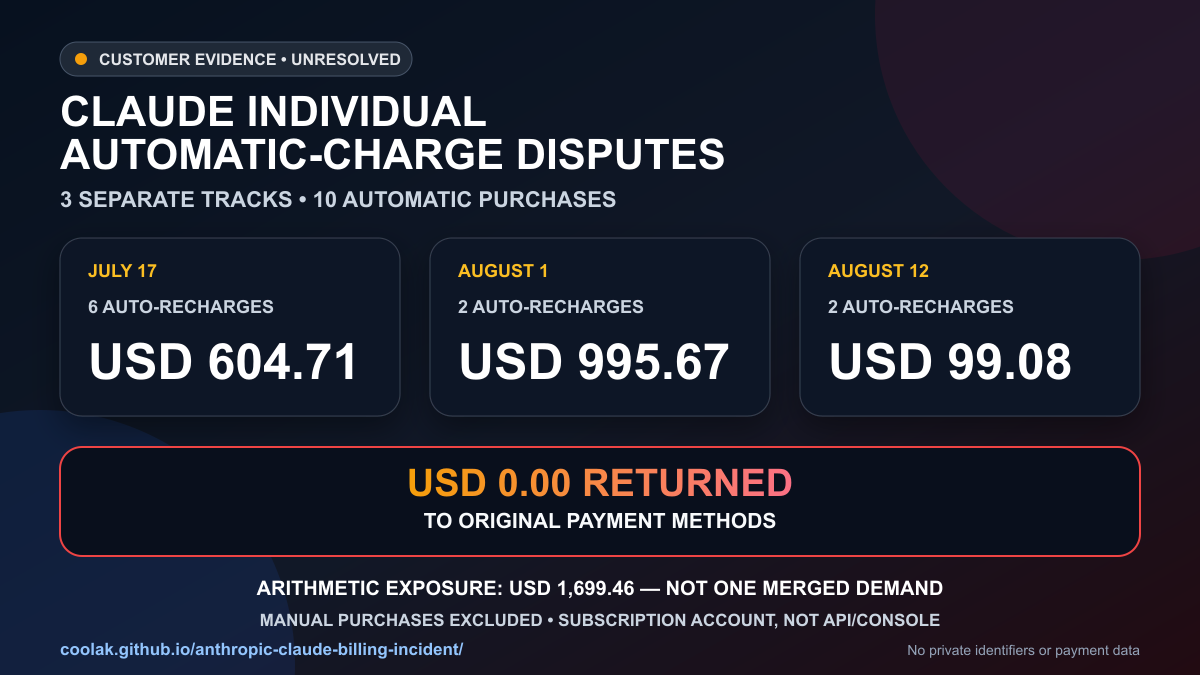
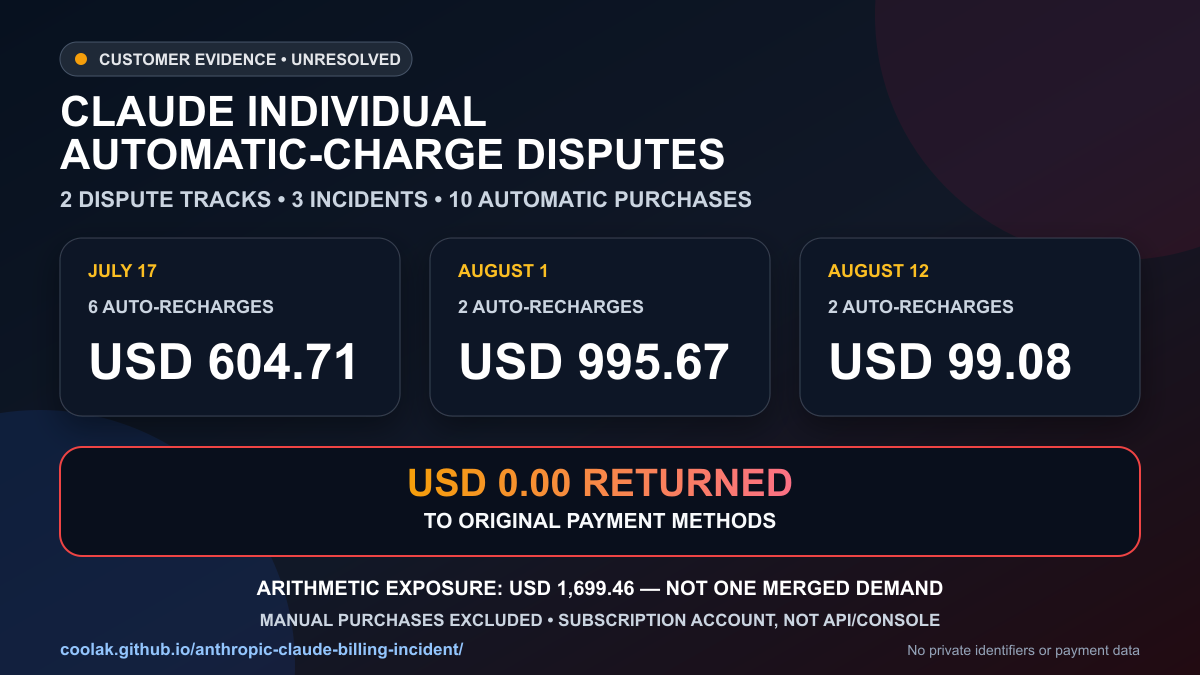
Clarify public dispute track topology

Changed region(s): [[0.0617, 0.28, 0.6475, 0.3111]]

diff --git a/index.html b/index.html
@@ -4,23 +4,23 @@
   <meta charset="utf-8">
   <meta name="viewport" content="width=device-width, initial-scale=1">
   <title>Anthropic Claude Automatic-Charge Refund Evidence Hub</title>
-  <meta name="description" content="Privacy-sanitized evidence for three separate Claude Individual automatic-charge disputes: USD 604.71 on July 17, USD 995.67 on August 1, and USD 99.08 followed by a post-charge capture showing Auto-reload off; USD 0 has been returned to the original payment methods.">
+  <meta name="description" content="Privacy-sanitized evidence for two separate Claude Individual dispute tracks covering three automatic-charge incidents: USD 604.71 on July 17, USD 995.67 on August 1, and standalone USD 99.08 on August 12; USD 0 has been returned to the original payment methods.">
   <meta name="robots" content="index, follow">
   <link rel="canonical" href="https://coolak.github.io/anthropic-claude-billing-incident/">
   <link rel="alternate" type="application/json" title="Privacy-safe automatic-charge transaction summary" href="./automatic-charge-summary.json">
   <meta property="og:type" content="article">
   <meta property="og:site_name" content="Anthropic Claude Billing Incident">
   <meta property="og:title" content="Anthropic Claude Automatic-Charge Refund Evidence Hub">
-  <meta property="og:description" content="Ten automatic Individual-plan credit purchases across three separate disputes total USD 1,699.46 in arithmetic exposure. USD 0 has been returned to the original payment methods.">
+  <meta property="og:description" content="Ten automatic Individual-plan credit purchases across two separate dispute tracks covering three incidents total USD 1,699.46 in arithmetic exposure. USD 0 has been returned to the original payment methods.">
   <meta property="og:url" content="https://coolak.github.io/anthropic-claude-billing-incident/">
   <meta property="og:locale" content="en_US">
   <meta property="og:image" content="https://coolak.github.io/anthropic-claude-billing-incident/automatic-charge-disputes-share-card.png">
   <meta property="og:image:width" content="1200">
   <meta property="og:image:height" content="675">
-  <meta property="og:image:alt" content="Three separate Claude Individual automatic-charge tracks: USD 604.71 on July 17, USD 995.67 on August 1, and USD 99.08 on August 12; USD 0 returned to original payment methods.">
+  <meta property="og:image:alt" content="Two separate dispute tracks covering three Claude Individual automatic-charge incidents: USD 604.71 on July 17, USD 995.67 on August 1, and standalone USD 99.08 on August 12; USD 0 returned to original payment methods.">
   <meta name="twitter:card" content="summary_large_image">
   <meta name="twitter:title" content="Anthropic Claude Automatic-Charge Refund Evidence Hub">
-  <meta name="twitter:description" content="Three separate automatic-charge disputes: USD 604.71, USD 995.67, and USD 99.08. USD 0 has been returned to the original payment methods.">
+  <meta name="twitter:description" content="Two separate dispute tracks cover three automatic-charge incidents: USD 604.71, USD 995.67, and standalone USD 99.08. USD 0 has been returned to the original payment methods.">
   <meta name="twitter:image" content="https://coolak.github.io/anthropic-claude-billing-incident/automatic-charge-disputes-share-card.png">
   <meta name="twitter:url" content="https://coolak.github.io/anthropic-claude-billing-incident/">
   <script type="application/ld+json">
@@ -29,8 +29,8 @@
       "@type": "WebPage",
       "name": "Anthropic Claude Automatic-Charge Refund Evidence Hub",
       "url": "https://coolak.github.io/anthropic-claude-billing-incident/",
-      "description": "Privacy-sanitized evidence for three separate Claude Individual automatic-charge disputes: USD 604.71 on July 17, USD 995.67 on August 1, and USD 99.08 followed by a post-charge capture showing Auto-reload off; USD 0 has been returned to the original payment methods.",
-      "dateModified": "2026-08-15T00:30:00Z",
+      "description": "Privacy-sanitized evidence for two separate Claude Individual dispute tracks covering three automatic-charge incidents: USD 604.71 on July 17, USD 995.67 on August 1, and standalone USD 99.08 on August 12; USD 0 has been returned to the original payment methods.",
+      "dateModified": "2026-08-15T02:42:00Z",
       "image": "https://coolak.github.io/anthropic-claude-billing-incident/automatic-charge-disputes-share-card.png",
       "about": [
         "Anthropic Claude billing",
@@ -337,11 +337,11 @@
   <div class="page">
     <header>
       <div class="eyebrow">Privacy-sanitized public incident brief</div>
-      <h1>Three separate Claude automatic-charge disputes remain unresolved. USD 0 has been returned to the original payment methods.</h1>
-      <p class="subtitle">A public-facing evidence hub covering the acknowledged July 17 mass usage-credit incident, the separate August 1 post-reset dispute, and a later USD 99.08 incident in which two automatic credit purchases completed after the customer says Auto-reload had been disabled.</p>
+      <h1>Two separate Claude dispute tracks covering three automatic-charge incidents remain unresolved. USD 0 has been returned to the original payment methods.</h1>
+      <p class="subtitle">A public-facing evidence hub covering three incidents in two legally and operationally separate tracks: the acknowledged July 17 mass usage-credit incident plus the August 1 post-reset recurrence in the existing USD 1,600.38 track, and the later standalone USD 99.08 disabled-Auto-reload incident.</p>
       <p class="subtitle"><strong>July 17 scope note:</strong> The disputed amount remains $604.71. The affected period may potentially extend to earlier dates and July 18, but that has not yet been established; adjacent-date charges remain outside the current total unless Anthropic's transaction-level records connect them to the same incident.</p>
       <div class="meta-row">
-        <div class="pill">Updated: 2026-08-15 00:30 UTC</div>
+        <div class="pill">Updated: 2026-08-15 02:42 UTC</div>
         <div class="pill">Status: unresolved based on current evidence</div>
         <div class="pill">Scope: Claude Individual-plan extra usage — not API workspace billing</div>
       </div>
@@ -350,7 +350,7 @@
     <main>
       <section class="privacy">
         <h2>Reporter-ready automatic-charge reconciliation</h2>
-        <p class="lede">The first two disputes retain their existing automatic-only demand of USD 1,600.38. The later disabled-Auto-reload incident is a separate USD 99.08 demand. Manual purchases remain excluded.</p>
+        <p class="lede">The existing automatic-only track covers the July 17 and August 1 incidents and retains its fixed USD 1,600.38 demand. The later disabled-Auto-reload incident is a separate USD 99.08 track. Manual purchases remain excluded.</p>
         <table aria-label="Automatic-charge refund reconciliation">
           <thead>
             <tr><th>Disputed period</th><th>Automatic recharges</th><th>Verified amount</th><th>Returned to original payment methods</th><th>Scope boundary</th></tr>
@@ -368,8 +368,8 @@
         <p>One application covering only the separate August 12 <strong>USD 99.08</strong> event was also sent through the official statutory consumer-protection procedure to a separate national consumer protection agency. This is filing status only, not an agency finding, investigation result, legal-violation determination, or refund decision.</p>
         <p><strong>Evidence boundary:</strong> original merchant invoices and receipts establish the automatic purchase objects and amounts. <a href="https://status.anthropic.com/incidents/g613ntyj2pwf">Anthropic's official incident record</a> establishes an erroneous July 17 requirement for usage credits on Fable 5, but the public record does not independently map every July transaction to that error. The August 1 reset sequence is a first-party account observation. The August 12 screenshot proves the post-charge disabled state when captured, not the earlier disable timestamp. Anthropic's internal entitlement, configuration, trigger, and payment ledgers are required for those joins.</p>
         <p><a href="./august-12-disabled-auto-reload.html"><strong>Open the August 12 disabled-Auto-reload evidence →</strong></a> · <a href="https://github.com/anthropics/claude-code/issues/85937"><strong>Open dedicated issue #85937 →</strong></a> · <a href="./august-1-evidence-chain.html"><strong>Open the August 1 evidence chain →</strong></a> · <a href="./july-17-reporter-brief.html"><strong>Open the July 17 reporter brief →</strong></a></p>
-        <p><a href="./automatic-charge-disputes-share-card.png"><img src="./automatic-charge-disputes-share-card.png" width="1200" height="675" style="display:block;width:100%;height:auto;border-radius:12px;border:1px solid var(--line)" alt="Three separate Claude Individual automatic-charge tracks: six July 17 auto-recharges totaling USD 604.71, two August 1 auto-recharges totaling USD 995.67, and two August 12 auto-recharges totaling USD 99.08; USD 0 returned to original payment methods."></a></p>
-        <p><a href="./automatic-charge-summary.json"><strong>Download machine-readable ten-transaction JSON</strong></a> · <a href="./automatic-charge-disputes-share-card.png">Download three-track share-card PNG</a> · <a href="./automatic-charge-disputes-share-card.svg">Accessible SVG</a></p>
+        <p><a href="./automatic-charge-disputes-share-card.png"><img src="./automatic-charge-disputes-share-card.png" width="1200" height="675" style="display:block;width:100%;height:auto;border-radius:12px;border:1px solid var(--line)" alt="Two separate dispute tracks covering three Claude Individual automatic-charge incidents: six July 17 auto-recharges totaling USD 604.71, two August 1 auto-recharges totaling USD 995.67, and two standalone August 12 auto-recharges totaling USD 99.08; USD 0 returned to original payment methods."></a></p>
+        <p><a href="./automatic-charge-summary.json"><strong>Download machine-readable ten-transaction JSON</strong></a> · <a href="./automatic-charge-disputes-share-card.png">Download two-track/three-incident share-card PNG</a> · <a href="./automatic-charge-disputes-share-card.svg">Accessible SVG</a></p>
       </section>
 
       <section class="privacy">

diff --git a/README.md b/README.md
@@ -23,7 +23,7 @@ Two completed Claude Individual `Auto-recharge credits` purchases total **USD 99
 
 The primary public-interest record is the standalone **July 17 mass usage-credit incident**: six automatic recharges totaling **USD 604.71**, a separate manual purchase excluded from the claim, and **USD 0 returned to the original payment methods**. Anthropic selected a 30-minute correction window; the customer's claim covers the entire July 17 date shown on the merchant records.
 
-The hub also preserves three separately scoped records that must not be merged into the July 17 claim: an August 1 post-reset auto-recharge incident, an August 12 disabled-Auto-reload incident, and the older discounted manual-credit purchase failure. The root Pages hub is now explicitly scoped to the three automatic-charge disputes; the older manual-purchase material remains available only as a clearly labeled separate archive lane. The two automatic-only refund tracks remain **USD 1,600.38** for July 17 plus August 1 and a separate **USD 99.08** for August 12; **USD 1,699.46** is only arithmetic exposure across those distinct tracks.
+The hub also preserves three separately scoped records that must not be merged into the July 17 claim: an August 1 post-reset auto-recharge incident, an August 12 disabled-Auto-reload incident, and the older discounted manual-credit purchase failure. The root Pages hub is now explicitly scoped to two automatic-charge dispute tracks covering three incidents; the older manual-purchase material remains available only as a clearly labeled separate archive lane. The two automatic-only refund tracks remain **USD 1,600.38** for July 17 plus August 1 and a separate **USD 99.08** for August 12; **USD 1,699.46** is only arithmetic exposure across those distinct tracks.
 
 In the August 12 incident, two original merchant invoice/receipt pairs documented completed Claude Individual `Auto-recharge credits` purchases of **USD 49.88** and **USD 49.20**, totaling **USD 99.08**. The customer states Auto-reload was disabled before both charges. A signed-in Claude Billing screenshot captured approximately 24 minutes after the second receipt email shows the control off via a visible **Turn on** button. The screenshot proves the post-charge disabled state when captured, not the earlier disable timestamp; Anthropic controls the historical setting-change and recharge-trigger logs. An authenticated first-party Claude email delivered fifteen days before the receipt emails has the Subject **“We turned off auto-reload on your Claude Code account”**, but its body instead contains the July 17 / USD 3.11 correction; this mismatch is corroborating rather than conclusive historical proof. Anthropic's current [paid-plan guide](https://support.claude.com/en/articles/12429409-manage-usage-credits-for-paid-claude-plans) describes Auto-reload as an optional spending control for automatic funding below a customer-set threshold, establishing an intended control model rather than this account's historical state. The customer blocked the funding card after the second charge. This later **USD 99.08** demand remains separate from the existing **USD 1,600.38** automatic-only track. One standalone FTC ReportFraud filing for this incident was accepted into Consumer Sentinel, and one application covering only the separate USD 99.08 event was sent through the official statutory consumer-protection procedure to a separate national consumer protection agency. These are intake or filing statuses only, not agency findings, investigation results, legal-violation determinations, or refund decisions; private identifiers are withheld publicly.
 
@@ -41,7 +41,7 @@ These issues should not be handled as generic card-decline or ordinary usage dis
 
 - Hosted public incident page: https://coolak.github.io/anthropic-claude-billing-incident/
 - **Machine-readable ten-transaction ledger:** https://coolak.github.io/anthropic-claude-billing-incident/automatic-charge-summary.json
-- **Three-track automatic-charge share card:** https://coolak.github.io/anthropic-claude-billing-incident/automatic-charge-disputes-share-card.png
+- **Two-track / three-incident automatic-charge share card:** https://coolak.github.io/anthropic-claude-billing-incident/automatic-charge-disputes-share-card.png
 - **August 12 disabled-Auto-reload evidence record:** https://coolak.github.io/anthropic-claude-billing-incident/august-12-disabled-auto-reload.html
 - **August 12 disabled-Auto-reload share card:** https://coolak.github.io/anthropic-claude-billing-incident/august-12-disabled-auto-reload-share-card.png
 - **August 12 public-safe disabled-state capture:** https://coolak.github.io/anthropic-claude-billing-incident/august-12-auto-reload-disabled.jpg
